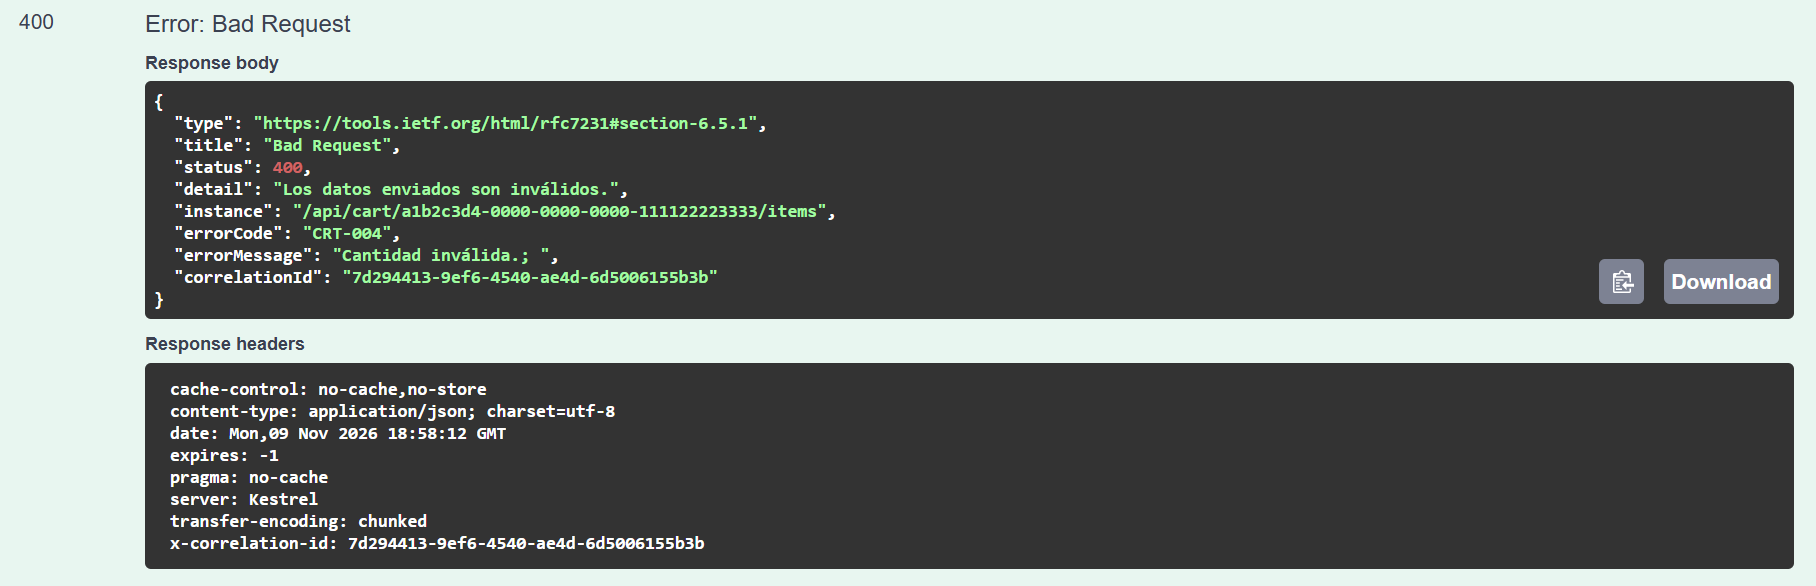
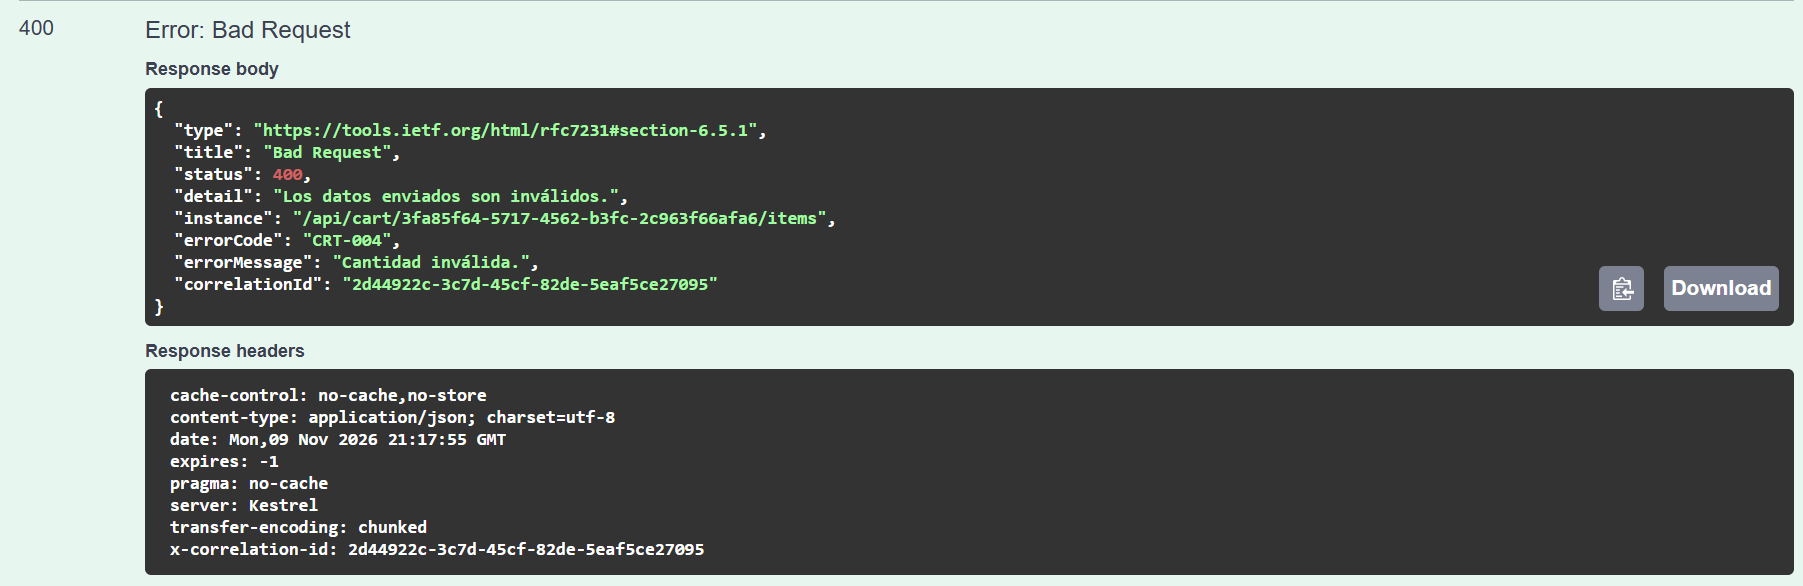
Cart y Notifications: mensajes de validación sin "; " final, JSON mal armado en español, sin UseHttpsRedirection, capturas 400 actualizadas

diff --git a/src/Cart.API/Controllers/CartController.cs b/src/Cart.API/Controllers/CartController.cs
@@ -121,8 +121,10 @@ public class CartController : ControllerBase
         return NoContent();
     }
 
+ 
     // Si los datos no cumplen las reglas del DTO, junta todos los errores
     // separados por punto y coma y corta con CRT-004.
+    // Si el JSON vino mal armado, devuelve un mensaje propio en español.
     private void ValidarDatos()
     {
         if (ModelState.IsValid)
@@ -131,13 +133,34 @@ public class CartController : ControllerBase
         }
 
         string errores = "";
+        bool jsonInvalido = false;
 
-        foreach (var campo in ModelState.Values)
+        foreach (var item in ModelState)
         {
-            foreach (var error in campo.Errors)
+            string campo = item.Key;
+
+            foreach (var error in item.Value.Errors)
             {
-                errores = errores + error.ErrorMessage + "; ";
+                // Los errores de JSON roto vienen con el campo vacío o empezando con "$"
+                if (campo == "" || campo.StartsWith("$"))
+                {
+                    jsonInvalido = true;
+                }
+                else
+                {
+                    // Si ya hay un error anotado, se separa del siguiente con "; "
+                    if (errores != "")
+                    {
+                        errores = errores + "; ";
+                    }
+                    errores = errores + error.ErrorMessage;
+                }
             }
+        }
+
+        if (jsonInvalido)
+        {
+            errores = "El cuerpo del pedido no es un JSON válido.";
         }
 
         if (errores == "")

diff --git a/src/Notifications.API/Controllers/NotificationsController.cs b/src/Notifications.API/Controllers/NotificationsController.cs
@@ -62,6 +62,7 @@ public class NotificationsController : ControllerBase
 
     // Si los datos no cumplen las reglas del DTO, junta todos los errores
     // separados por punto y coma y corta con NTF-002.
+    // Si el JSON vino mal armado, devuelve un mensaje propio en español.
     private void ValidarDatos()
     {
         if (ModelState.IsValid)
@@ -70,13 +71,34 @@ public class NotificationsController : ControllerBase
         }
 
         string errores = "";
+        bool jsonInvalido = false;
 
-        foreach (var campo in ModelState.Values)
+        foreach (var item in ModelState)
         {
-            foreach (var error in campo.Errors)
+            string campo = item.Key;
+
+            foreach (var error in item.Value.Errors)
             {
-                errores = errores + error.ErrorMessage + "; ";
+                // Los errores de JSON roto vienen con el campo vacío o empezando con "$"
+                if (campo == "" || campo.StartsWith("$"))
+                {
+                    jsonInvalido = true;
+                }
+                else
+                {
+                    // Si ya hay un error anotado, se separa del siguiente con "; "
+                    if (errores != "")
+                    {
+                        errores = errores + "; ";
+                    }
+                    errores = errores + error.ErrorMessage;
+                }
             }
+        }
+
+        if (jsonInvalido)
+        {
+            errores = "El cuerpo del pedido no es un JSON válido.";
         }
 
         if (errores == "")

diff --git a/src/Cart.API/Program.cs b/src/Cart.API/Program.cs
@@ -83,8 +83,6 @@ if (app.Environment.IsDevelopment())
     app.UseSwaggerUI();
 }
 
-app.UseHttpsRedirection();
-
 app.UseAuthorization();
 
 app.MapControllers();

diff --git a/src/Notifications.API/Program.cs b/src/Notifications.API/Program.cs
@@ -83,8 +83,6 @@ if (app.Environment.IsDevelopment())
     app.UseSwaggerUI();
 }
 
-app.UseHttpsRedirection();
-
 app.UseAuthorization();
 
 app.MapControllers();
